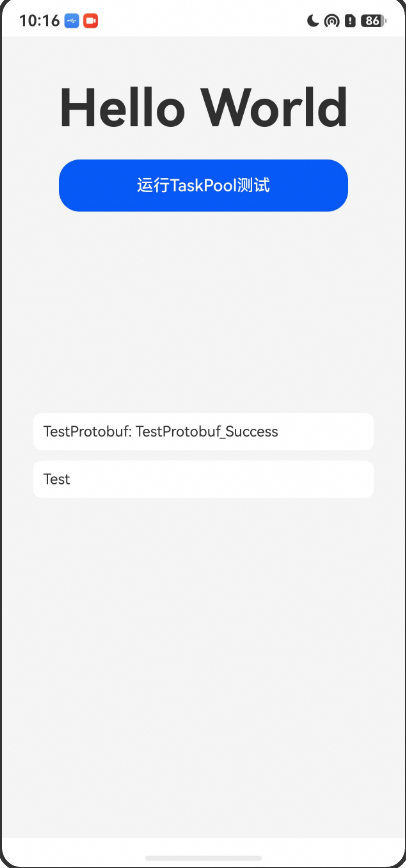
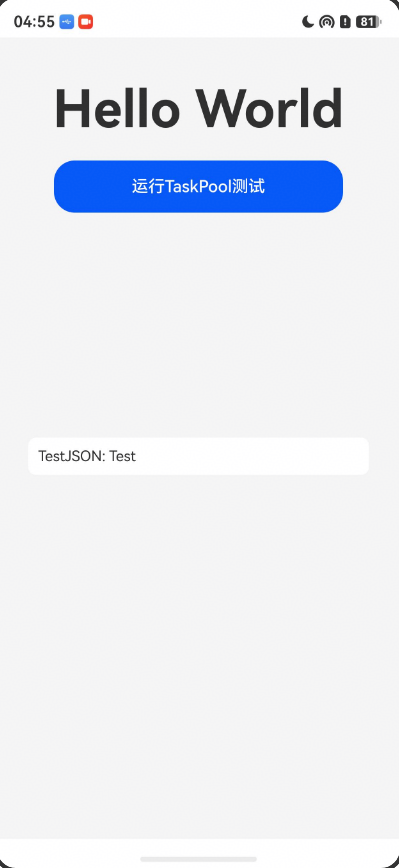
添加TurboTrans工程
Issue: https://gitcode.com/openharmony/applications_app_samples/issues/8859

diff --git a/code/DocsSample/ArkTS/ArkTsConcurrent/TurboTrans/hvigorfile.ts b/code/DocsSample/ArkTS/ArkTsConcurrent/TurboTrans/hvigorfile.ts
@@ -13,7 +13,6 @@
  * limitations under the License.
  */
 import { turboTransJsonPlugin } from '@hadss/turbo-trans-json-plugin';
-import { turboTransProtobufPlugin } from '@hadss/turbo-trans-protobuf-plugin';
 import { hvigor } from '@ohos/hvigor';
 import { appTasks } from '@ohos/hvigor-ohos-plugin';
 
@@ -28,13 +27,6 @@ export default {
         scanPaths: ['src/main/ets', 'src/ohosTest/ets'],
         preserveOriginalImports: false
       }
-    }),
-    turboTransProtobufPlugin({
-      saveDir: 'src/main/ets/protobuf',
-      ignoreModuleNames: ['TurboTransCore' , 'PerformanceBaseline' , 'TurboTransProtobufCommon'],
-      sendable: true,
-      debug: false,
-      scanDir: ['protobuf'],
     }),
   ]       /* Custom plugin to extend the functionality of Hvigor. */
 }

diff --git a/code/DocsSample/ArkTS/ArkTsConcurrent/TurboTrans/README.md b/code/DocsSample/ArkTS/ArkTsConcurrent/TurboTrans/README.md
@@ -2,10 +2,9 @@
 
 ### 介绍
 
-本示例主要演示了 `@hadss/turbo-trans-json`（下文简称 **turbotransJSON**）与 `@hadss/turbo-trans-protobuf`（下文简称 **turbotransProtobuf**）在 ArkTS 中操作Sendable对象的典型用法：
+本示例主要演示了 `@hadss/turbo-trans-json`（下文简称 **turbotransJSON**）在 ArkTS 中操作Sendable对象的典型用法：
  	 
 - 使用 **turbotransJSON** 将 JSON 字符串反序列化为对象，并转换为 **Sendable 对象** 在并发实例间传递。
-- 使用 **turbotransProtobuf** 通过 `.proto` 生成 **@Sendable** 的消息类，并进行编码/解码。
 
 ### 效果预览
 
@@ -16,7 +15,7 @@
 ### 使用说明
 
 1. 在主界面，点击运行Taskpool测试。
-2. 执行结果会即时反馈在屏幕中央，打印出TestProtobuf_Success和Test。
+2. 执行结果会即时反馈在屏幕中央，打印出Test。
 
 ### 工程目录
 
@@ -34,8 +33,6 @@ entry/src/
  │   │   ├── turbotrans_JSON
  │   │   │   ├── layout.ets                // JSON布局模型
  │   │   │   └── test1.ets                 // JSON序列化测试
- │   │   ├── turbotrans_protobuf
- │   │   │   └── test1.ets                 // Protobuf编解码测试
  │   ├── module.json5
  │   └── resources
  ├── generated
@@ -44,16 +41,16 @@ entry/src/
  │       │   └── SendableLayout.ets        // 自动生成的Sendable布局模型
  │       └── turbotrans_JSON
  │           └── layout.ets                // 自动生成的JSON布局模型
- ├── protobuf
- │   └── test_pb.proto                     // Protobuf定义文件
+ ├── mock
+ │   └── mock-config.json5                 // Mock配置文件
  ├── ohosTest
- │   ├── ets
- │   │   ├── test
- │   │       ├── Ability.test.ets          // 自动化测试代码
- │   │       └── List.test.ets             // 列表测试代码
- ├── test
- │   ├── List.test.ets                     // 列表单元测试
- │   └── LocalUnit.test.ets                 // 本地单元测试
+ │   └── ets
+ │       └── test
+ │           ├── Ability.test.ets          // 自动化测试代码
+ │           └── List.test.ets             // 列表测试代码
+ └── test
+     ├── List.test.ets                     // 列表单元测试
+     └── LocalUnit.test.ets                // 本地单元测试
 ```
 
 ### 相关权限

diff --git a/code/DocsSample/ArkTS/ArkTsConcurrent/TurboTrans/ohosTest.md b/code/DocsSample/ArkTS/ArkTsConcurrent/TurboTrans/ohosTest.md
@@ -1,4 +1,4 @@
 | 测试功能              | 预置条件 | 输入         | 预期输出     |是否自动|测试结果|
 |-------------------|------|------------|----------|--------------------------------|--------------------------------|
 | 拉起应用              | 	设备正常运行 | 	执行无需输入 	         | 成功拉起应用   |是|Pass|
-| TaskPool执行任务能力测试  | 执行用例 | 执行无需输入     | TestProtobuf: TestProtobuf_Success </br> Test |是|Pass|
+| TaskPool执行任务能力测试  | 执行用例 | 执行无需输入     | Test |是|Pass|